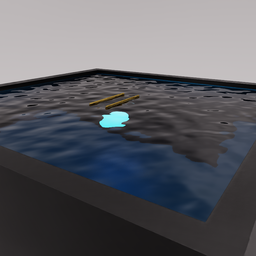
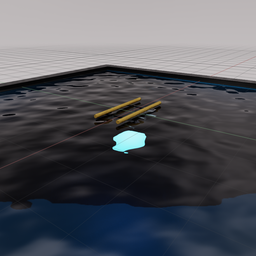
adjust buoyancy and positions

diff --git a/scripts/damping.py b/scripts/damping.py
@@ -22,18 +22,19 @@ def compute(db):
     height = db.inputs.floating_obj_height  # m
     half_height = height/2
 
+    displacement_percentage = -z_pos / height + 0.5
+
+    damping = 0
+
     # Calculate damping based on position
     if z_pos >= half_height:
-        linear_damping = 0.01
-        angular_damping = 0.01
+        damping = 0.01
     elif z_pos < -half_height:
-        linear_damping = max_damp
-        angular_damping = max_damp
+        damping = max_damp
     elif -half_height <= z_pos < half_height:
-        linear_damping = abs(max_damp * (z_pos - half_height))
-        angular_damping = abs(max_damp * (z_pos - half_height))
+        damping = max_damp * displacement_percentage
 
     # Assign output
-    db.outputs.linear_damping = linear_damping
-    db.outputs.angular_damping = angular_damping
+    db.outputs.linear_damping = damping
+    db.outputs.angular_damping = damping
     
